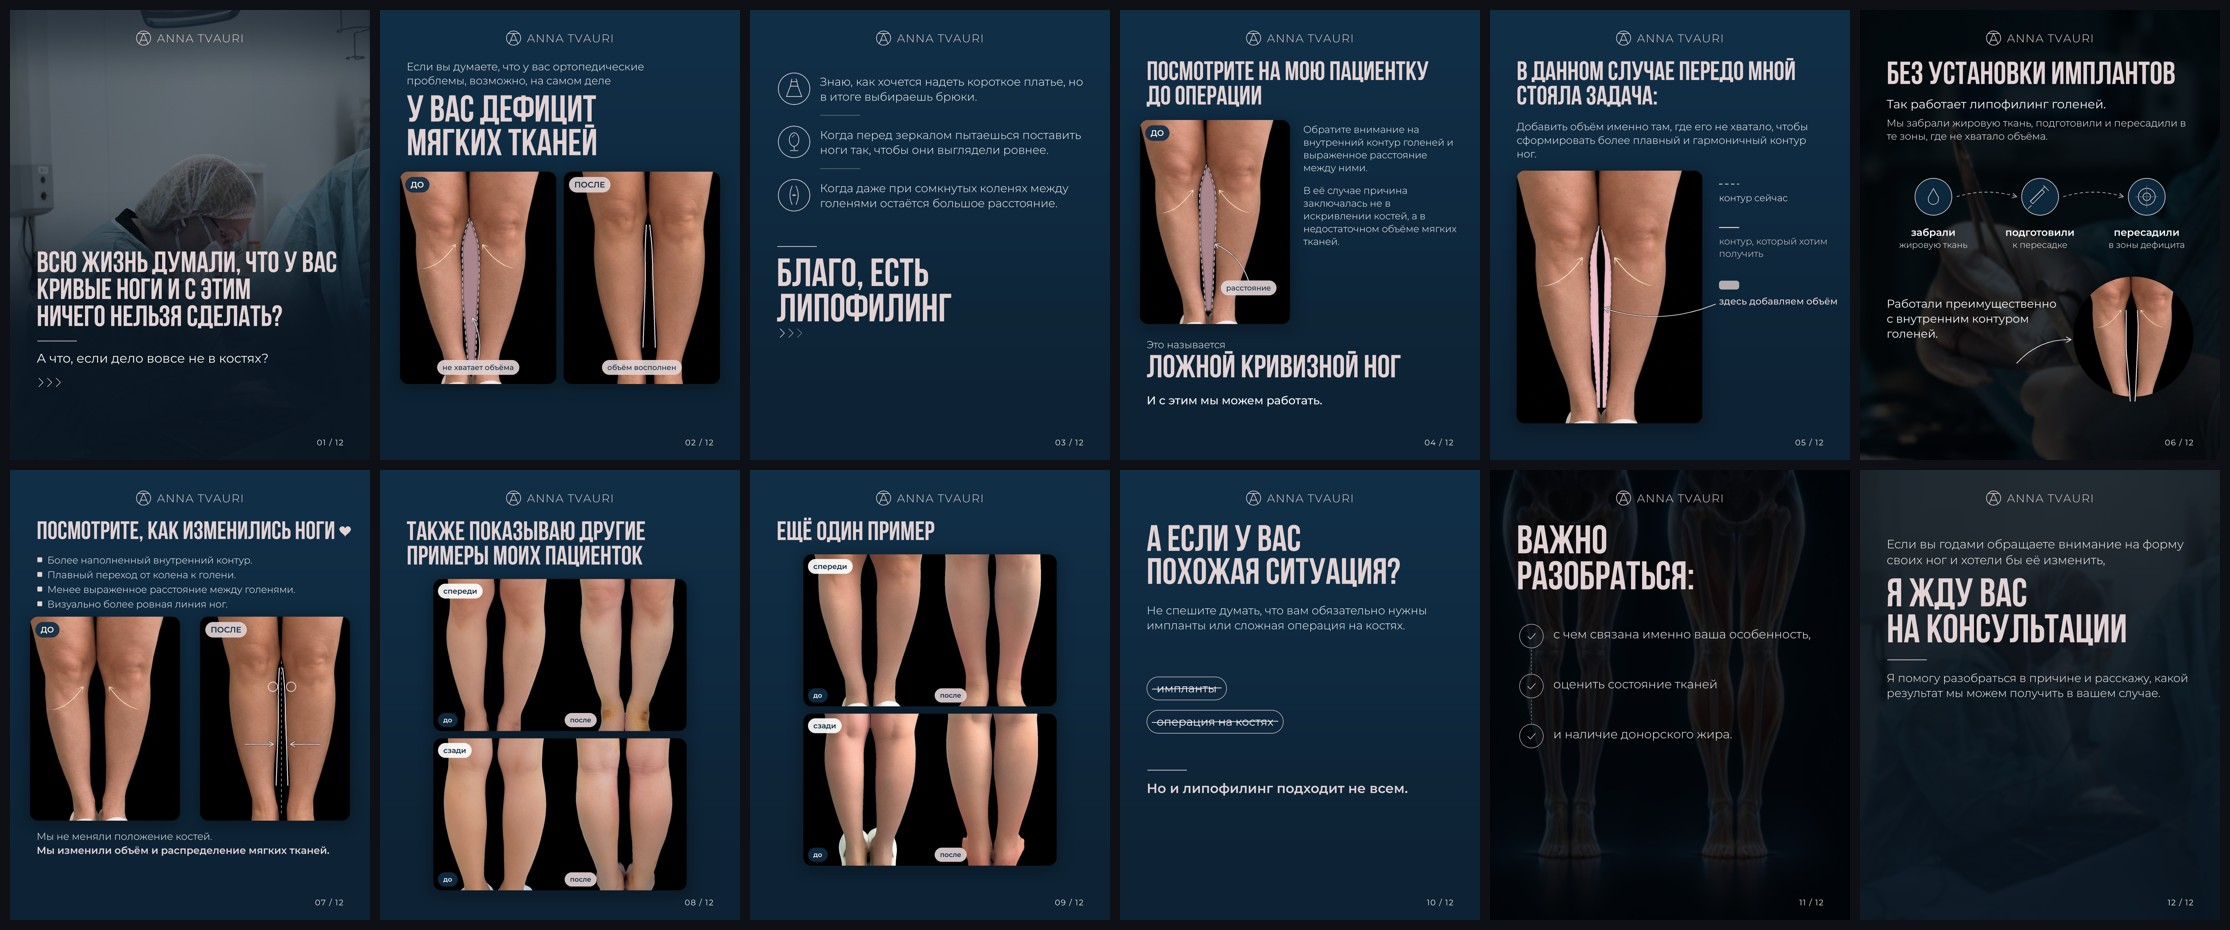
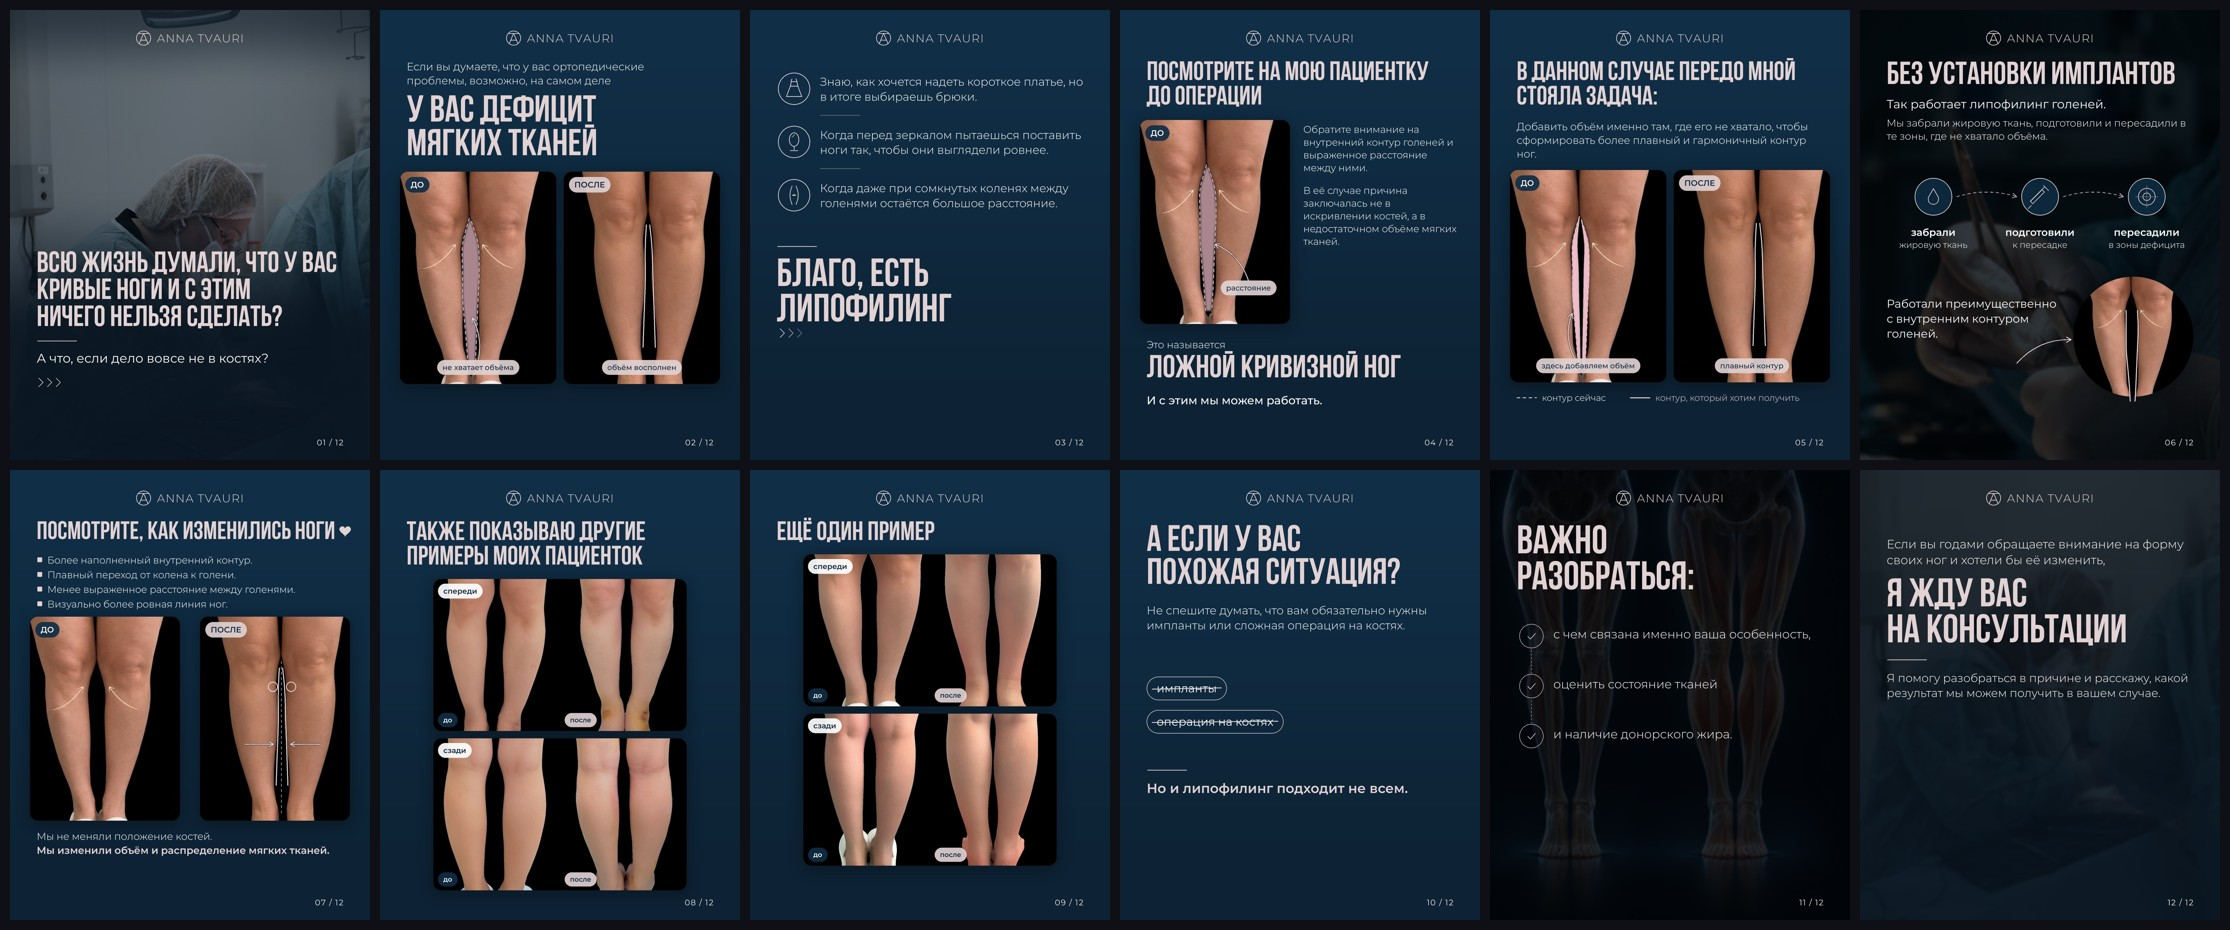
Ложная кривизна ног: slide 5 shows before (current and target contour, volume to add) next to after
Claude-Session: https://claude.ai/code/session_01DLYcpYAewhkUMdYYshxueL

Changed region(s): [[0.6498, 0.1559, 0.8354, 0.4677]]

diff --git a/tools/post_false_curvature.py b/tools/post_false_curvature.py
@@ -333,30 +333,38 @@ def s4():
 
 
 def s5():
+    """the task: before with today's contour, the target contour and the volume to add; after next to it"""
     bg = navy_bg(); els = []
     els.append(E(lambda sl: sl.lines((80, 150), ["В ДАННОМ СЛУЧАЕ ПЕРЕДО МНОЙ", "СТОЯЛА ЗАДАЧА:"], bebas(80), POWDER, lh=0.92), 0.2))
     t = "Добавить объём именно там, где его не хватало, чтобы сформировать более плавный и гармоничный контур ног."
     els.append(E(lambda sl: para(sl, 80, 330, t, 31, 300, WHITE, 920), 0.9))
-    top = 330 + para_h(t, 31, 300, 920) + 30; hgt = 1240 - top; wid = int(hgt * (CROP[2] - CROP[0]) * 512 / ((CROP[3] - CROP[1]) * 761))
-    x0 = 80; box = (x0, int(top), x0 + wid, int(top + hgt)); mp = mapper(box, CROP)
-    els.append(card_el(half("b", CROP), box, 0.5))
+    top = int(330 + para_h(t, 31, 300, 920) + 28); gap_ = 22; cw = (W - 120 - gap_) // 2
+    ch = int(cw * ((CROP[3] - CROP[1]) * photo(MAIN).height) / ((CROP[2] - CROP[0]) * (photo(MAIN).width // 2)))
+    ch = min(ch, 1185 - top)
+    bb = (60, top, 60 + cw, top + ch); ab = (60 + cw + gap_, top, 60 + 2 * cw + gap_, top + ch)
+    mp, ma = mapper(bb, CROP), mapper(ab, CROP)
+    els.append(card_el(half("b", CROP), bb, 0.5))
+    els.append(E(lambda sl: pill(sl, bb[0] + 16, bb[1] + 16, "ДО", NAVY, WHITE, 24, 600), 0.8, "fade"))
     els.append(E(lambda sl: contours(sl, mp, [B_L, B_R], WHITE), 1.6, "fade"))
-    els.append(E(lambda sl: contours(sl, mp, [T_L, T_R], POWDER, dashed=False, w=3.2), 2.6, "down", 1.2))
+    els.append(E(lambda sl: contours(sl, mp, [T_L, T_R], POWDER, dashed=False, w=3.2), 2.4, "down", 1.2))
     def fill(sl):
         g = Image.new("RGBA", sl.im.size, (0, 0, 0, 0)); dg = ImageDraw.Draw(g)
         for a, b in ((B_L, T_L), (B_R, T_R)):
             poly = [mp(*q) for q in smooth(a, 60)] + [mp(*q) for q in smooth(b, 60)[::-1]]
             dg.polygon([(x * S, y * S) for x, y in poly], fill=(247, 196, 208, 225))
         sl.im.alpha_composite(g.filter(ImageFilter.GaussianBlur(4 * S))); sl.im.alpha_composite(g)
-    els.append(E(fill, 4.0, "fade", 0.8, pulse=True))
-    # legend on the right of the card
-    lx = box[2] + 50; ly = box[1] + 40
-    els.append(E(lambda sl: (sl.dashed([(lx, ly), (lx + 60, ly)], WHITE, 2.6, 10, 8), para(sl, lx, ly + 24, "контур сейчас", 28, 300, WHITE, 360)), 1.6, "fade"))
-    els.append(E(lambda sl: (sl.poly([(lx, ly + 130), (lx + 60, ly + 130)], POWDER, 3.2), para(sl, lx, ly + 154, "контур, который хотим получить", 28, 300, POWDER, 360)), 2.6, "fade"))
-    els.append(E(lambda sl: (sl.rrect((lx, ly + 290, lx + 60, ly + 316), 8, POWDER, 200),
-                             para(sl, lx, ly + 334, "здесь добавляем объём", 28, 500, POWDER, 360)), 4.0, "fade"))
-    gx, gy = mp(0.45, 0.56)
-    els.append(E(lambda sl: arrow_to(sl, (lx - 10, ly + 360), (gx - 4, gy), POWDER, -0.2), 4.4, "fade"))
+    els.append(E(fill, 3.6, "fade", 0.8, pulse=True))
+    gx, gy = mp(0.445, 0.62)
+    els.append(E(lambda sl: (arrow_to(sl, (bb[0] + cw / 2 - 40, bb[3] - 72), (gx - 6, gy + 20), POWDER, -0.25),
+                             pill(sl, bb[0] + cw / 2, bb[3] - 50, "здесь добавляем объём", POWDER, NAVY, 22, 500, "mm")), 4.0, "fade"))
+    els.append(card_el(half("a", CROP), ab, 5.0, "wipe"))
+    els.append(E(lambda sl: pill(sl, ab[0] + 16, ab[1] + 16, "ПОСЛЕ", POWDER, NAVY, 24, 600), 5.6, "fade"))
+    els.append(E(lambda sl: contours(sl, ma, [A_L, A_R], POWDER, dashed=False, w=3), 5.8, "down", 1.0))
+    els.append(E(lambda sl: pill(sl, ab[0] + cw / 2, ab[3] - 50, "плавный контур", POWDER, NAVY, 22, 500, "mm"), 6.5, "fade"))
+    # legend under the photos
+    ly = bb[3] + 46
+    els.append(E(lambda sl: (sl.dashed([(80, ly), (140, ly)], WHITE, 2.6, 10, 8), sl.text((156, ly), "контур сейчас", mont(26, 300), WHITE, "lm")), 1.6, "fade"))
+    els.append(E(lambda sl: (sl.poly([(420, ly), (480, ly)], POWDER, 3.2), sl.text((496, ly), "контур, который хотим получить", mont(26, 300), POWDER, "lm")), 2.4, "fade"))
     render(5, bg, els, 8.5)
 
 
